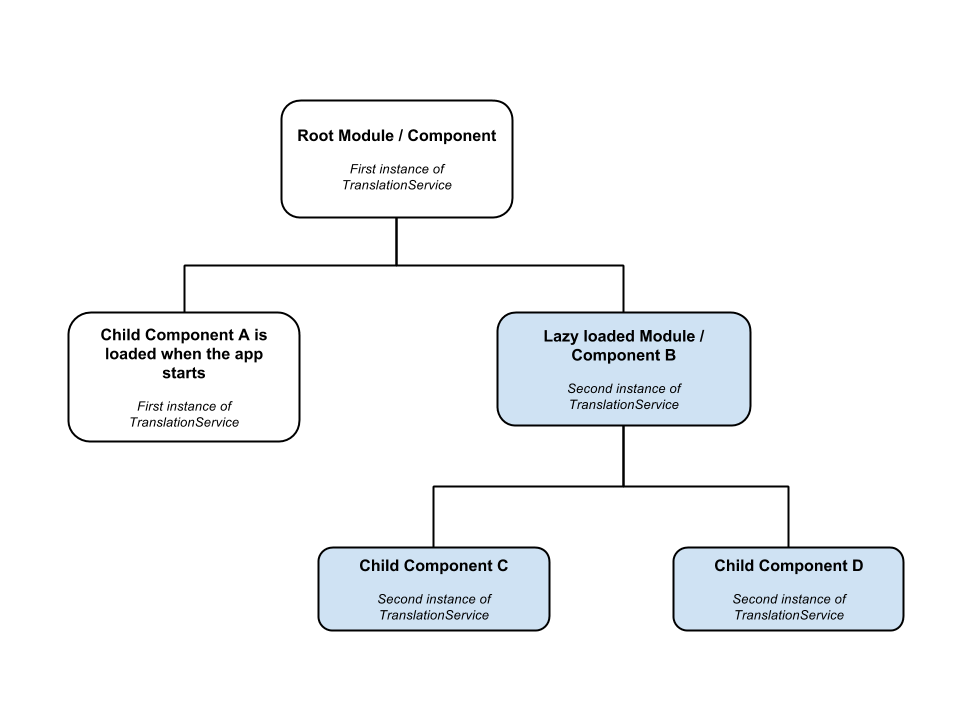
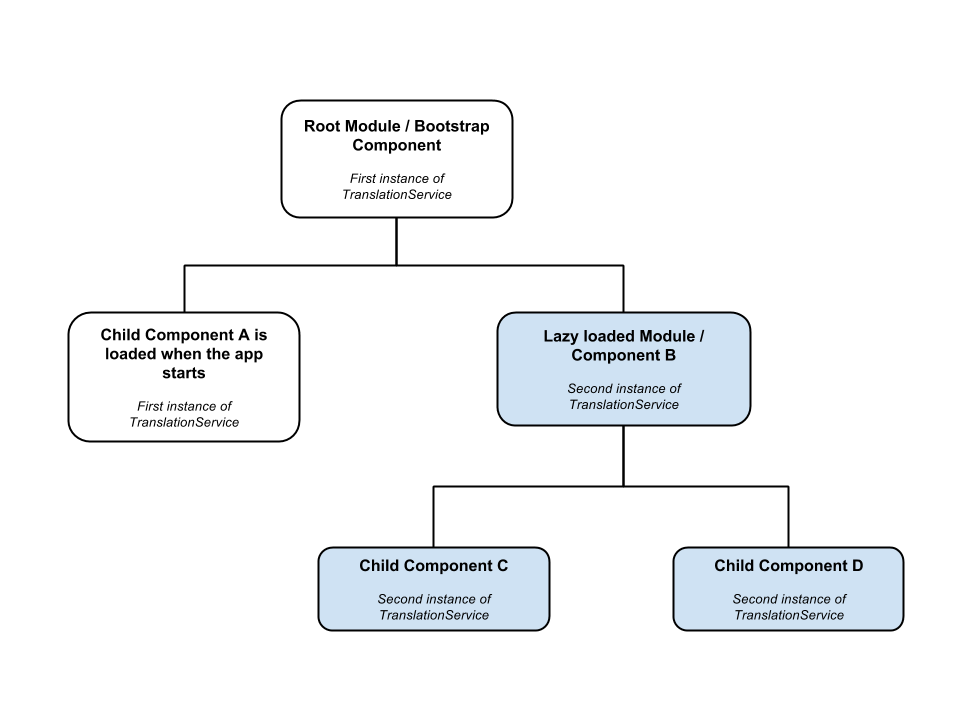
Docs: update lazy loading

Changed region(s): [[0.3125, 0.1528, 0.5312, 0.275]]

diff --git a/src/services/translation.service.ts b/src/services/translation.service.ts
@@ -22,7 +22,7 @@ export interface ITranslationService {
     serviceState: ServiceState;
 
     /**
-     * Configure the service in the application root module or bootstrap component.
+     * Configure the service in the application root module or in a feature module with lazy loading.
      */
     addConfiguration(): ITranslationConfigAPI;
 
@@ -34,7 +34,7 @@ export interface ITranslationService {
     init(): void;
 
     /**
-     * The language of the translation service is updated when the translation data has been loaded.
+     * The language of TranslationService is updated when the translation data has been loaded.
      */
     getLanguage(): string;
 

diff --git a/src/services/locale.service.ts b/src/services/locale.service.ts
@@ -19,7 +19,7 @@ export interface ILocaleService {
     loadTranslation: Subject<any>;
 
     /**
-     * Configure the service in the application root module or bootstrap component.
+     * Configure the service in the application root module or in a feature module with lazy loading.
      */
     addConfiguration(): ILocaleConfigAPI;
 

diff --git a/doc/spec.md b/doc/spec.md
@@ -658,7 +658,7 @@ Property | Value
 
 Method | Function
 ------ | --------
-`addConfiguration(): ILocaleConfigAPI` | Configure the service in the application root module or bootstrap component
+`addConfiguration(): ILocaleConfigAPI` | Configure the service in the application root module or in a feature module with lazy loading
 `getConfiguration(): ILocaleConfig` |
 `init(): void` | Call this method after the configuration to initialize the service
 `getAvailableLanguages(): string[]` |
@@ -683,10 +683,10 @@ Property | Value
 
 Method | Function
 ------ | --------
-`addConfiguration(): ITranslationConfigAPI` | Configure the service in the application root module or bootstrap component
+`addConfiguration(): ITranslationConfigAPI` | Configure the service in the application root module or in a feature module with lazy loading
 `getConfiguration(): ITranslationConfig` |
 `init(): void` | Call this method after the configuration to initialize the service
-`getLanguage(): string` | The language of the translation service is updated when the translation data has been loaded
+`getLanguage(): string` | The language of `TranslationService` is updated when the translation data has been loaded
 `translate(key: string, args?: any, lang?: string): string` |
 `translateAsync(key: string, args?: any, lang?: string): Observable<string>` |
 
